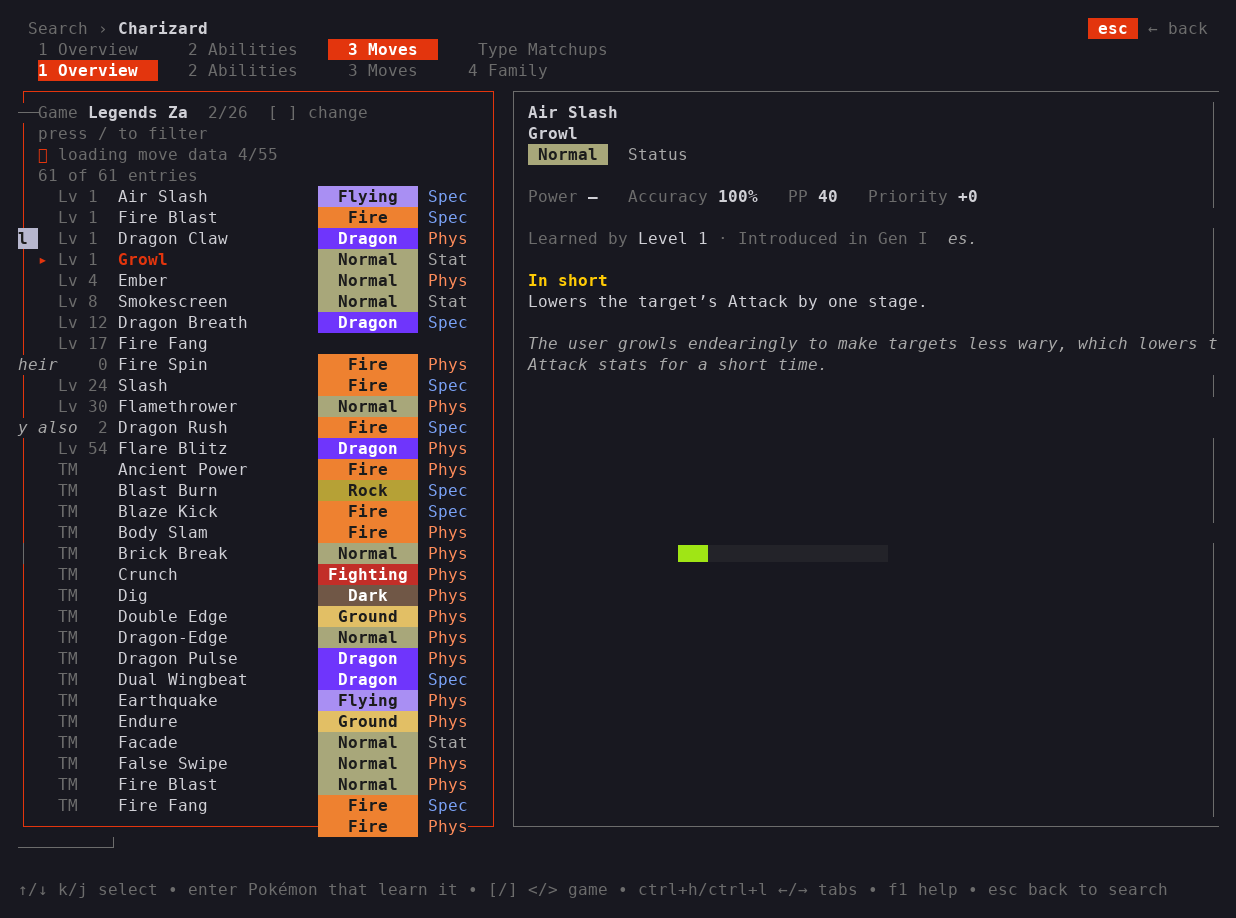
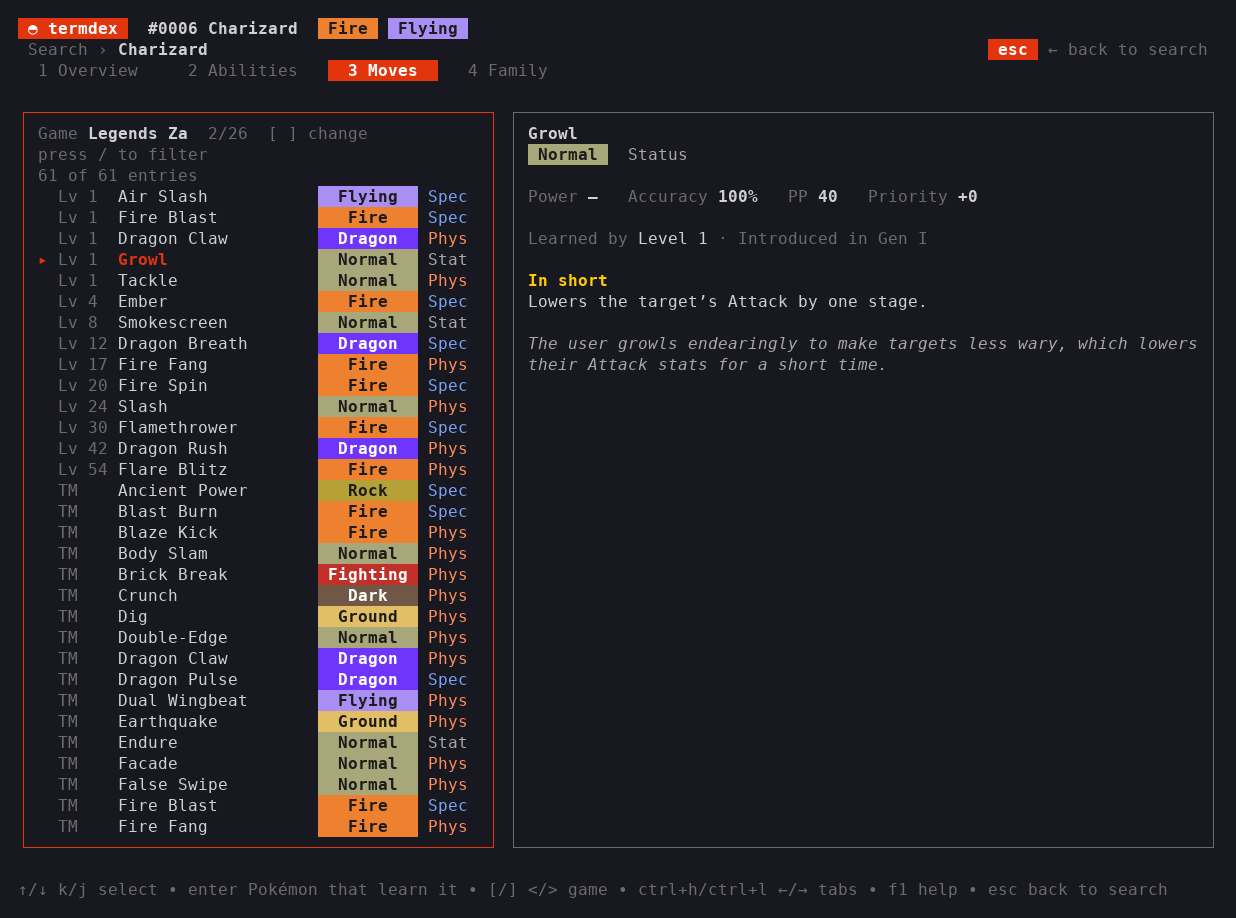
Keep every screen within the terminal and retake the screenshots
Some screens were a column too wide (panel width maths), and at 80x24
the search, breadcrumb, scroll indicator and help screen overflowed. A
frame larger than the terminal makes it scroll, leaving stray text on
screen. Fix the widths, let the breadcrumb shrink, shorten the scroll
indicator, wrap the help screen, and cut any frame to the terminal size
as a last resort. A new test checks every screen at four sizes.

The README screenshots are retaken with the fixed build.

diff --git a/internal/tui/layout_test.go b/internal/tui/layout_test.go
@@ -1,0 +1,79 @@
+package tui
+
+import (
+	"fmt"
+	"strings"
+	"testing"
+
+	"charm.land/lipgloss/v2"
+
+	"github.com/JoaoASimoes/termdex/internal/config"
+	"github.com/JoaoASimoes/termdex/internal/dex"
+)
+
+// A frame larger than the terminal makes it scroll, and the renderer then leaves stray
+// text on screen. Every screen must fit, before fitScreen's safety cut.
+func TestScreensFitTheTerminal(t *testing.T) {
+	chart := dex.TypeChart{"fire": {"water": 2, "rock": 2}, "flying": {"rock": 2, "ground": 0}, "water": {}, "rock": {}, "ground": {}}
+	d := dex.NewOfflineClientIDs([]dex.PokemonEntry{
+		{Name: "charmander", ID: 4}, {Name: "charmeleon", ID: 5}, {Name: "charizard", ID: 6},
+		{Name: "charizard-mega-x", ID: 10034},
+	}, chart)
+
+	var moves []dex.MoveRef
+	for i := 0; i < 80; i++ {
+		moves = append(moves, dex.MoveRef{Name: fmt.Sprintf("move-number-%d", i), Method: "level-up", Level: i})
+	}
+	p := dex.Pokemon{
+		Name: "charizard", ID: 6, SpeciesID: 6, Species: "charizard", Types: []string{"fire", "flying"},
+		Genus: "Flame Pokémon", Generation: "generation-i", Height: 17, Weight: 905,
+		Flavor:    strings.Repeat("It spits fire that is hot enough to melt boulders. ", 4),
+		Abilities: []dex.AbilityRef{{Name: "blaze"}, {Name: "solar-power", Hidden: true}},
+		Stats: []dex.Stat{{Name: "hp", Base: 78}, {Name: "attack", Base: 84}, {Name: "defense", Base: 78},
+			{Name: "special-attack", Base: 109}, {Name: "special-defense", Base: 85}, {Name: "speed", Base: 100}},
+		Learnsets: []dex.Learnset{{VersionGroup: "scarlet-violet", Moves: moves}},
+		Varieties: []string{"charizard", "charizard-mega-x"},
+		Evolution: &dex.EvoNode{Species: "charmander", Next: []dex.EvoNode{
+			{Species: "charmeleon", Next: []dex.EvoNode{{Species: "charizard"}}}}},
+	}
+
+	for _, size := range [][2]int{{80, 24}, {100, 30}, {120, 42}, {160, 50}} {
+		m := newTUIModel(d, config.Default())
+		m.dataReady = true
+		m.buildDexOrder()
+		m.width, m.height = size[0], size[1]
+		m.pokeCache[p.Name] = p
+		m.moves["move-number-3"] = dex.MoveInfo{Name: "move-number-3", DisplayName: "Move Number 3", Type: "fire",
+			Class: "special", ShortEffect: strings.Repeat("Has a chance to burn the target. ", 6),
+			LearnedBy: []string{"charmander", "charmeleon", "charizard"}}
+
+		check := func(screen, view string) {
+			t.Helper()
+			if h, w := lipgloss.Height(view), lipgloss.Width(view); h > size[1] || w > size[0] {
+				t.Errorf("%dx%d %s: frame is %dx%d", size[0], size[1], screen, w, h)
+			}
+		}
+
+		m.search.inputs[fieldPokemon].SetValue("char")
+		m.refreshSuggestions()
+		m.search.preview = &p
+		check("pokedex", m.viewSearch())
+		for _, f := range []field{fieldType1, fieldNature} {
+			m.setFocus(f)
+			check(fmt.Sprint("search field ", f), m.viewSearch())
+		}
+
+		m.openDetail(p)
+		for _, tab := range []detailTab{tabOverview, tabAbilities, tabMoves, tabFamily} {
+			m.setTab(tab)
+			m.detail.moveSel = 3
+			check(fmt.Sprint("entry tab ", tab), m.viewDetail())
+		}
+
+		m.openList("move", "move-number-3", false)
+		check("list", m.viewList())
+
+		m.showHelp = true
+		check("help", m.viewHelp())
+	}
+}

diff --git a/internal/tui/scroll.go b/internal/tui/scroll.go
@@ -5,6 +5,7 @@ import (
 	"strings"
 
 	"charm.land/lipgloss/v2"
+	"github.com/charmbracelet/x/ansi"
 )
 
 // Panels taller than the terminal are clipped and can be scrolled with the scroll keys.
@@ -28,8 +29,8 @@ func (m tuiModel) availHeight(footer string) int {
 }
 
 // clip cuts content to height lines at the current scroll offset, with an indicator line
-// when there is more. keys names the scroll keys for the indicator.
-func (m tuiModel) clip(content string, height int, keys string) string {
+// when there is more.
+func (m tuiModel) clip(content string, height int, _ string) string {
 	if height <= 0 {
 		return content
 	}
@@ -54,11 +55,27 @@ func (m tuiModel) clip(content string, height int, keys string) string {
 	default:
 		arrows = "↑↓ more"
 	}
-	if f := strings.Fields(keys); len(f) > 0 {
-		keys = f[0] // only the main keys, so the line never wraps
-	}
-	indicator := labelStyle.Render(fmt.Sprintf("── %s · %s · %d%% ──", arrows, keys, 100*(off+window)/len(lines)))
+	// Kept short so it fits even the narrowest panel (the keys are in the help line).
+	indicator := labelStyle.Render(fmt.Sprintf("── %s · %d%% ──", arrows, 100*(off+window)/len(lines)))
 	return strings.Join(visible, "\n") + "\n" + indicator
+}
+
+// fitScreen makes sure a frame never has more lines or columns than the terminal: a frame
+// that is too big makes the terminal scroll, and the renderer then leaves stray text behind.
+func fitScreen(content string, width, height int) string {
+	if width <= 0 || height <= 0 {
+		return content
+	}
+	lines := strings.Split(content, "\n")
+	if len(lines) > height {
+		lines = lines[:height]
+	}
+	for i, l := range lines {
+		if ansi.StringWidth(l) > width {
+			lines[i] = ansi.Truncate(l, width, "")
+		}
+	}
+	return strings.Join(lines, "\n")
 }
 
 // scrollBy moves the scroll offset, staying within what was drawn.

diff --git a/internal/tui/overlay.go b/internal/tui/overlay.go
@@ -39,7 +39,11 @@ var helpTips = map[string][]string{
 
 func (m tuiModel) viewHelp() string {
 	name := m.helpScreenName()
-	keyW := 30
+	inner := 110 // text width inside the panel
+	if m.width > 0 {
+		inner = min(inner, max(40, m.width-4))
+	}
+	keyW := min(30, inner/3)
 	var b strings.Builder
 	for i, sec := range m.keys.HelpFor(name) {
 		if i > 0 {
@@ -47,17 +51,17 @@ func (m tuiModel) viewHelp() string {
 		}
 		b.WriteString(sectionStyle.Render(sec.Title) + "\n")
 		for _, r := range sec.Rows {
-			b.WriteString(lipgloss.NewStyle().Width(keyW).Render(keysLabel(r.Keys)) + r.Desc + "\n")
+			b.WriteString(lipgloss.JoinHorizontal(lipgloss.Top,
+				lipgloss.NewStyle().Width(keyW).Render(keysLabel(r.Keys)), wrap(r.Desc, inner-keyW)) + "\n")
 		}
 	}
 	if tips := helpTips[name]; len(tips) > 0 {
 		b.WriteString("\n" + sectionStyle.Render("Tips") + "\n")
-		width := min(max(40, m.width-8), 110)
 		for _, t := range tips {
-			b.WriteString(wrap("• "+t, width) + "\n")
+			b.WriteString(wrap("• "+t, inner) + "\n")
 		}
 	}
-	b.WriteString("\n" + labelStyle.Render("Every key can be changed in the config file: run `termdex config path` to find it, see docs/keybindings.md."))
+	b.WriteString("\n" + labelStyle.Render(wrap("Every key can be changed in the config file: run `termdex config path` to find it, see docs/keybindings.md.", inner)))
 
 	g := m.keys.Global
 	foot := m.footer(helpLine(item(g.Help.Key(0)+"/esc", "close"),

diff --git a/internal/tui/nav.go b/internal/tui/nav.go
@@ -7,6 +7,7 @@ import (
 
 	tea "charm.land/bubbletea/v2"
 	"charm.land/lipgloss/v2"
+	"github.com/charmbracelet/x/ansi"
 
 	"github.com/JoaoASimoes/termdex/internal/dex"
 )
@@ -179,7 +180,7 @@ func (m tuiModel) viewList() string {
 	}
 	totalW = min(totalW, 130)
 	const leftW = 34
-	rightW := max(30, min(maxRightWidth, totalW-leftW-9))
+	rightW := max(20, min(maxRightWidth, totalW-leftW-9))
 
 	e := m.keys.Entry
 	help := helpLine(item(pair(e.Up, e.Down), "select"), item(e.Open.Key(0), "open"),
@@ -229,8 +230,8 @@ func (m tuiModel) breadcrumb(width int) string {
 
 	right := accentBlock.Render(" "+m.keys.Entry.Back.Key(0)+" ") + labelStyle.Render(" ← back to "+m.backTarget()+" ")
 	gap := width - lipgloss.Width(left) - lipgloss.Width(right)
-	if gap < 2 {
-		return left + "   " + right
+	if gap < 2 { // too narrow for both: keep the trail, cut from the left side of it
+		return ansi.TruncateLeft(left, lipgloss.Width(left)-max(10, width-1), "…")
 	}
 	return left + strings.Repeat(" ", gap) + right
 }

diff --git a/internal/tui/detail.go b/internal/tui/detail.go
@@ -320,8 +320,8 @@ func twoPanels(left string, leftW int, right string, rightW int, height int) str
 
 func (m tuiModel) viewOverview(totalW, avail int) string {
 	p := m.detail.p
-	leftW := max(36, (totalW-9)/2)
-	rightW := max(36, totalW-9-leftW)
+	leftW := max(30, (totalW-9)/2)
+	rightW := max(30, totalW-9-leftW)
 
 	leftParts := []string{renderIntro(p, leftW, m.spriteView(p.Name, 30, 15))}
 	leftParts = append(leftParts, sectionStyle.Render("Base stats")+"\n"+renderStats(p, leftW))
@@ -410,7 +410,7 @@ func renderAbilityInfo(a dex.AbilityInfo, hidden bool, width int) string {
 func (m tuiModel) viewMoves(totalW, bodyH, avail int) string {
 	d := m.detail
 	const leftW = 44
-	rightW := max(30, totalW-leftW-9)
+	rightW := max(20, totalW-leftW-9)
 	moves := m.filteredMoves()
 	sel := clamp(d.moveSel, 0, len(moves)-1)
 

diff --git a/internal/tui/search.go b/internal/tui/search.go
@@ -497,8 +497,9 @@ func (m tuiModel) viewSearch() string {
 	mode := tabOf(s.focus)
 	tabs := renderTabs(searchTabs, mode)
 
-	rightWidth := min(maxRightWidth, max(minRightWidth, m.width-leftWidth-8))
-	stacked := m.width > 0 && m.width < leftWidth+minRightWidth+8
+	// Two panels take 9 columns besides their content (borders, padding, gap).
+	rightWidth := min(maxRightWidth, max(minRightWidth, m.width-leftWidth-9))
+	stacked := m.width > 0 && m.width < leftWidth+minRightWidth+9
 	if stacked {
 		rightWidth = max(20, m.width-4)
 	}

diff --git a/internal/tui/model.go b/internal/tui/model.go
@@ -33,7 +33,7 @@ const (
 
 const (
 	leftWidth      = 30 // inner width of the search panel
-	minRightWidth  = 44
+	minRightWidth  = 40
 	maxRightWidth  = 64
 	maxSuggestions = 10
 )
@@ -625,6 +625,7 @@ func (m tuiModel) View() tea.View {
 	default:
 		content = m.viewSearch()
 	}
+	content = fitScreen(content, m.width, m.height)
 	v := tea.NewView(content)
 	v.AltScreen = true
 	v.WindowTitle = "termdex"

diff --git a/internal/tui/family.go b/internal/tui/family.go
@@ -136,7 +136,7 @@ func (m tuiModel) currentFamilyIndex() int {
 func (m tuiModel) viewFamily(totalW, bodyH, avail int) string {
 	items := m.familyItems()
 	const leftW = 34
-	rightW := max(30, totalW-leftW-9)
+	rightW := max(20, totalW-leftW-9)
 	if len(items) == 0 {
 		return twoPanels(labelStyle.Render("No evolutions or other forms."), leftW, "", rightW, 6)
 	}
